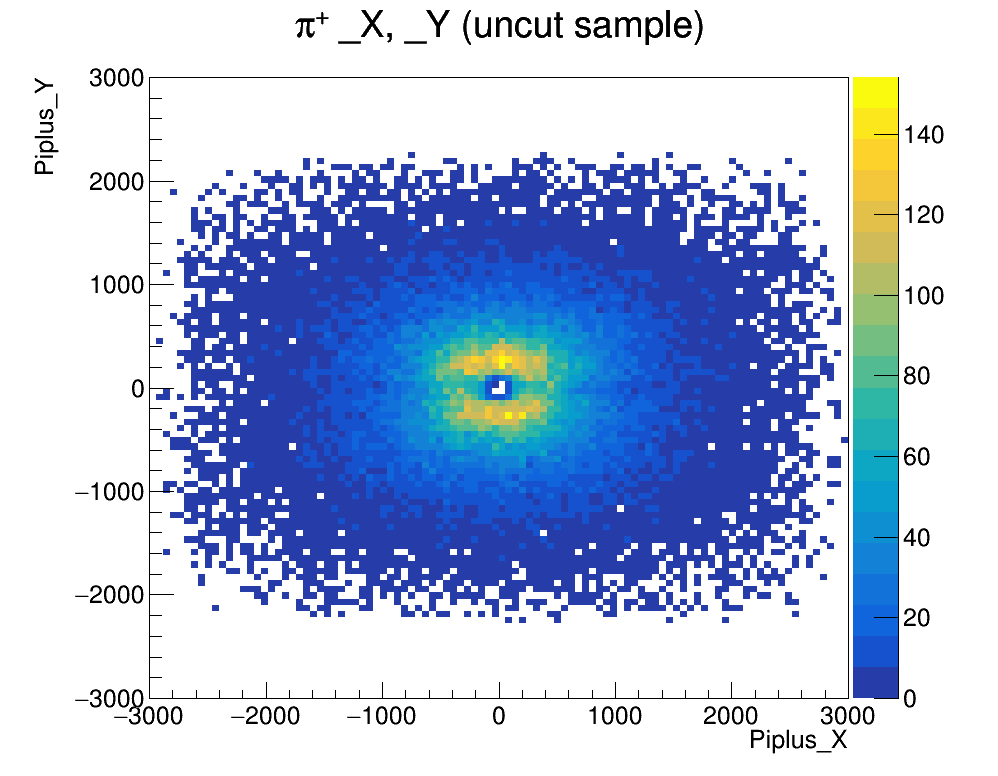
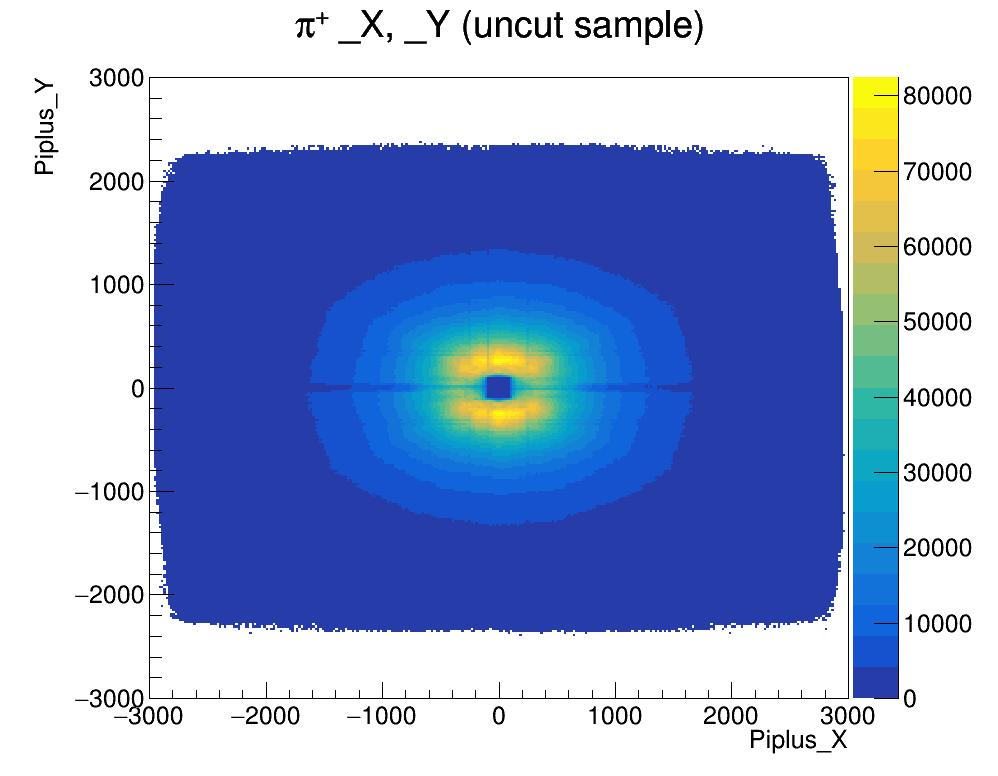
new figures for _x, _y

diff --git a/dp_mstest_rdf.C b/dp_mstest_rdf.C
@@ -10,7 +10,7 @@ EnableImplicitMT();
 
 
 //create rdataframe for dp magdown data
-RDataFrame dpdf("D2KKpi/DecayTree", "/share/lazy/D2KKpi/test/dptest1.root");
+RDataFrame dpdf("D2KKpi/DecayTree", {"/share/lazy/D2KKpi/dpmagdown_dec20.root","/share/lazy/D2KKpi/dpmagup_dec20.root"});
 
 //get and print number of entries
 /*
@@ -140,8 +140,8 @@ dptaucan->SaveAs("image/dp_tau_cut.png");
 
 //particle_x, particle_y
 
-/*
-auto pip_pos = dpdf.Fill<double, double>(TH2D("pip_pos", "#pi^{+} _X, _Y (uncut sample)",100,-3000,3000,100,-3000,3000), {"Piplus_X","Piplus_Y"});
+
+auto pip_pos = dpdf.Fill<double, double>(TH2D("pip_pos", "#pi^{+} _X, _Y (uncut sample)",300,-3000,3000,300,-3000,3000), {"Piplus_X","Piplus_Y"});
 	pip_pos->SetStats(0);
 	pip_pos->GetXaxis()->SetTitle("Piplus_X");
 	pip_pos->GetYaxis()->SetTitle("Piplus_Y");
@@ -153,7 +153,7 @@ pip_pos->Draw("colz");
 pip_pos_can->SaveAs("image/dp_XY_uncut_pip.png");
 
 
-auto kp_pos = dpdf.Fill<double, double>(TH2D("kp_pos", "K^{+} _X, _Y (uncut sample)",100,-3000,3000,100,-3000,3000), {"Kplus_X","Kplus_Y"});
+auto kp_pos = dpdf.Fill<double, double>(TH2D("kp_pos", "K^{+} _X, _Y (uncut sample)",300,-3000,3000,300,-3000,3000), {"Kplus_X","Kplus_Y"});
 	kp_pos->SetStats(0);
 	kp_pos->GetXaxis()->SetTitle("Kplus_X");
 	kp_pos->GetYaxis()->SetTitle("Kplus_Y");
@@ -165,7 +165,7 @@ kp_pos->Draw("colz");
 kp_pos_can->SaveAs("image/dp_XY_uncut_kp.png");
 
 
-auto km_pos = dpdf.Fill<double, double>(TH2D("km_pos", "K^{-} _X, _Y (uncut sample)",100,-3000,3000,100,-3000,3000), {"Kminus_X","Kminus_Y"});
+auto km_pos = dpdf.Fill<double, double>(TH2D("km_pos", "K^{-} _X, _Y (uncut sample)",300,-3000,3000,300,-3000,3000), {"Kminus_X","Kminus_Y"});
 	km_pos->SetStats(0);
 	km_pos->GetXaxis()->SetTitle("Kminus_X");
 	km_pos->GetYaxis()->SetTitle("Kminus_Y");
@@ -176,7 +176,7 @@ km_pos_can = new TCanvas("km_pos_can", "km_pos_can", 1000, 800);
 km_pos->Draw("colz");
 km_pos_can->SaveAs("image/dp_XY_uncut_km.png");
 
-*/
+
 
 
 

diff --git a/dp_dsp_rdf.C b/dp_dsp_rdf.C
@@ -109,7 +109,7 @@ auto dptotalcuthist = dp_cut.Fill<double>(TH1D("dptotalcuthist","D^{+}_{(s)} #ri
     dptotalcuthist->SetTitleFont(43);
     dptotalcuthist->SetTitleSize(33);
     dptotalcuthist->GetYaxis()->SetTitle("Events / 1 MeV/c^{2}");//Candidates/(1 MeV/c^{2})
-    dptotalcuthist->SetMinimum(100);//make minimum 100 so logy doesnt break, make 100 or better viewing
+    dptotalcuthist->SetMinimum(100);//make minimum 100 so logy doesnt break, make 100 for better viewing
     dptotalcuthist->GetYaxis()->SetTitleFont(43);
 	dptotalcuthist->GetYaxis()->SetTitleSize(35);
 	dptotalcuthist->GetYaxis()->CenterTitle(true);
@@ -134,7 +134,7 @@ auto dsptotalcuthist = dsp_cut.Fill<double>(TH1D("dsptotalcuthist","D^{+}_{(s)} 
     dsptotalcuthist->SetTitleFont(43);
     dsptotalcuthist->SetTitleSize(33);
     dsptotalcuthist->GetYaxis()->SetTitle("Events / 1 MeV");//Candidates/(1 MeV/c^{2})
-    dsptotalcuthist->SetMinimum(100);//make minimum 100 so logy doesnt break, make 100 or better viewing
+    dsptotalcuthist->SetMinimum(100);//make minimum 100 so logy doesnt break, make 100 for better viewing
     dsptotalcuthist->GetYaxis()->SetTitleFont(43);
 	dsptotalcuthist->GetYaxis()->SetTitleSize(35);
 	dsptotalcuthist->GetYaxis()->CenterTitle(true);

diff --git a/ntuple_info_rdf.C b/ntuple_info_rdf.C
@@ -10,10 +10,10 @@ EnableImplicitMT();
 
 //put rdataframe file here, can use multiple in second arg as {,,,}
 
-//RDataFrame rdf("D2KKpi/DecayTree", "/share/lazy/D2KKpi/dpmagup.root");//dpmagup dec_20
+//RDataFrame rdf("D2KKpi/DecayTree", "/share/lazy/D2KKpi/dpmagup_dec20.root");//dpmagup dec_20
 //RDataFrame rdf("D2KKpi/DecayTree", "/share/lazy/D2KKpi/dp2kkpi_magup.root");//dpmagup old_20
 
-RDataFrame rdf("D2KKpi/DecayTree", "/share/lazy/D2KKpi/dpmagdown.root");//dpmagdown dec_20
+RDataFrame rdf("D2KKpi/DecayTree", "/share/lazy/D2KKpi/dpmagdown_dec20.root");//dpmagdown dec_20
 //RDataFrame rdf("D2KKpi/DecayTree", "/share/lazy/D2KKpi/dp2kkpi_magdown.root");//dpmagdown old_20
 
 
@@ -58,5 +58,5 @@ for (auto &&colName : colNames) std::cout << colName << std::endl;
 
 
 
-
+//end
 }
